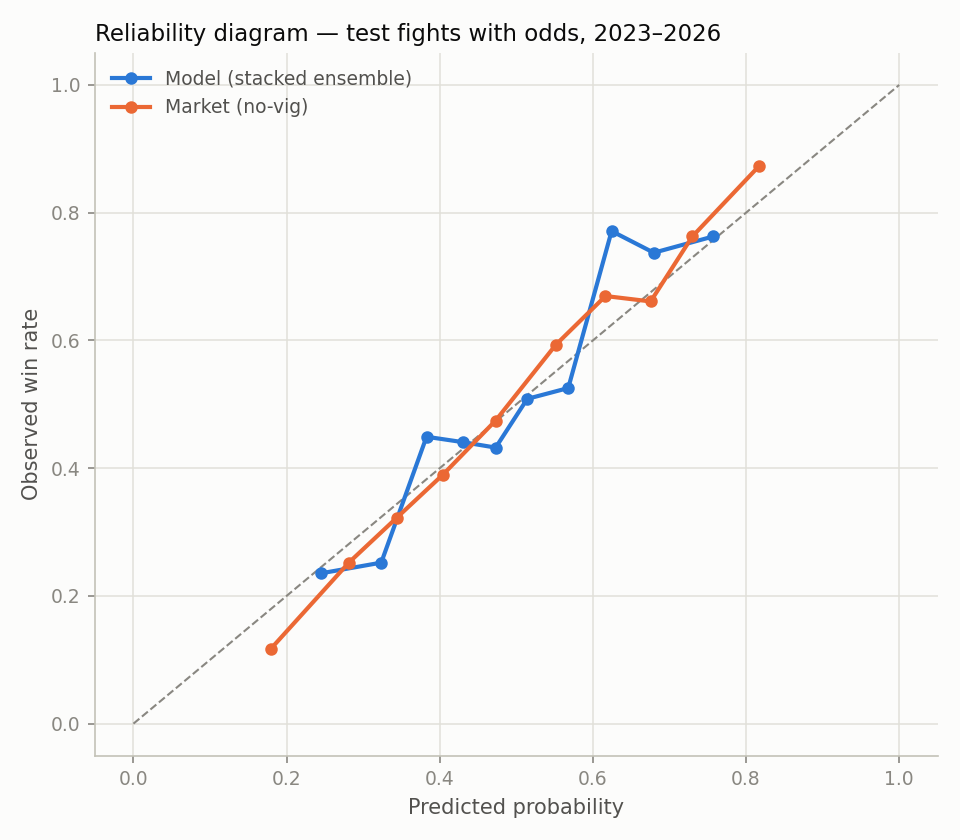
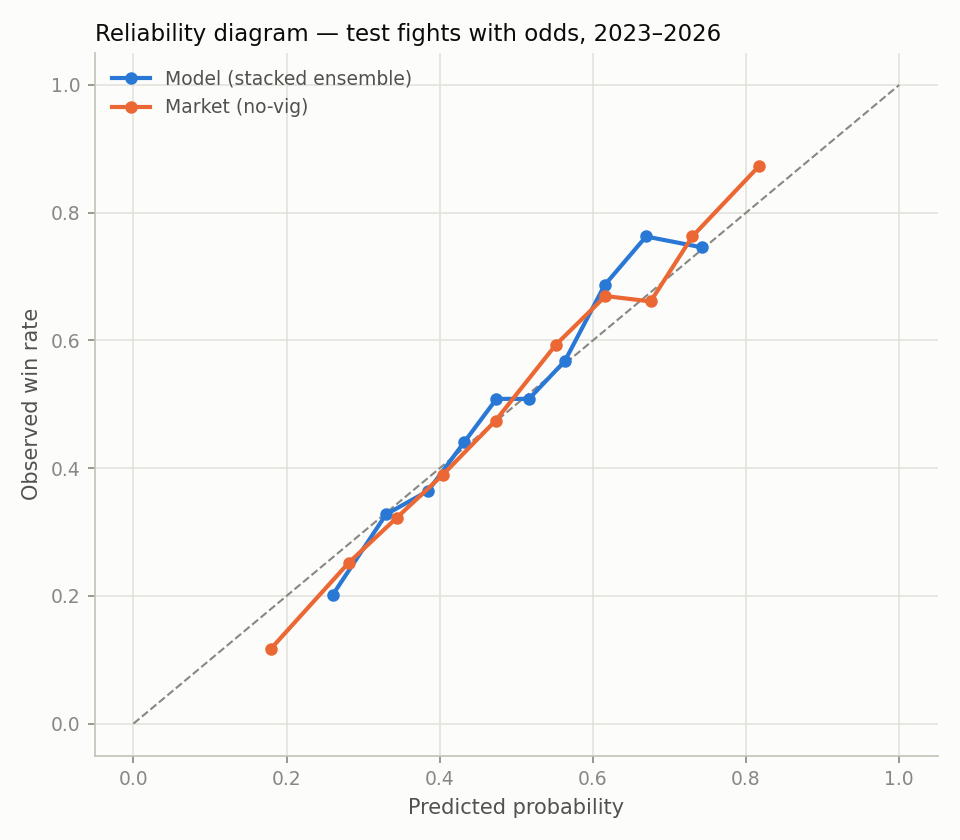
Leakage fix rerun: pre_ufc_* removal — headline REVISED DOWN (test 0.644/0.637 -> 0.629/0.641; odds subset 0.654/0.628 -> 0.640/0.631), blend-beats-market SURVIVES (0.577 vs 0.582, 98.7%, CI excludes 0)
Honest drop confirmed per pre-registered expectations (LL deltas HIT their
ranges; accuracy fell below the pre-registered floor — one permuted column
understated a 4-column correlated group). Configs retuned: LGB (31,.03,20),
XGB lambda 5->1; predict.py constants synced. report.md regenerated leak-free.

Claude-Session: https://claude.ai/code/session_01UqXmQ6iqZRpGsDz5HorbiP

Changed region(s): [[0.3125, 0.3405, 0.625, 0.7119], [0.625, 0.2476, 0.75, 0.3405]]

diff --git a/predict.py b/predict.py
@@ -69,7 +69,7 @@ def side_value(info, name, field):
         if t <= ft or ft <= t:
             return v
     return None
-BEST_LGB, BEST_XGB = (15, 0.06, 60), (4, 0.03, 5, 0.8, 0.6, 5)  # tuned in train_report.py CV (Phase 13 sweep)
+BEST_LGB, BEST_XGB = (31, 0.03, 20), (4, 0.03, 5, 0.8, 0.6, 1)  # retuned in train_report.py CV after pre_ufc_* removal (leakage audit 2026-08-13)
 
 # stats surfaced in the app's tale of the tape (what the model actually sees)
 TAPE_STATS = ["n_fights", "win_pct", "pre_ufc_winpct", "elo", "avg_opp_elo",

diff --git a/report.md b/report.md
@@ -3,29 +3,29 @@
 Generated by `train_report.py`. Seeds fixed (42); strict temporal validation.
 
 **Data:** 8264 UFC fights 2003-02-28 to 2026-08-08,
-110 features computed strictly as-of fight date by replaying career
+102 features computed strictly as-of fight date by replaying career
 histories (`build_features.py`): records, Elo (finish-weighted), per-minute
 striking/grappling rates, strike-target and position mixes, recent-form windows
 (last 3 fights), opponent quality (average opponent Elo), trajectory (peak-Elo
 decline, layoffs, weight-class changes), rankings, and physical attributes.
 
 **Split:** train ≤ 2023-06-03 (6650 fights), test after
-(1614 fights). LightGBM (best (15, 0.06, 20), cv 0.6468) and XGBoost
-(best (4, 0.03, 5, 0.8, 0.6, 5), cv 0.6477) tuned with 4-fold expanding-window CV inside
+(1614 fights). LightGBM (best (31, 0.03, 20), cv 0.6536) and XGBoost
+(best (4, 0.03, 5, 0.8, 0.6, 1), cv 0.6556) tuned with 4-fold expanding-window CV inside
 the train period. The stacking combiner, isotonic calibrator, and market blend
 were all fitted on out-of-fold CV predictions only. The LightGBM component
 is a 5-seed bag (adopted Phase 9: CV logloss 0.6571 -> 0.6535). Stack weights
-(LGB, XGB, logistic): [0.45, 0.4, 0.06].
+(LGB, XGB, logistic): [0.56, 0.15, 0.17].
 
 ## Model comparison — full test set (1614 fights)
 
 | Predictor | n | Accuracy | Log loss | Brier | ECE |
 |---|---|---|---|---|---|
-| Stacked ensemble (LGB+XGB+logistic) | 1614 | 0.644 | 0.637 | 0.223 | 0.029 |
-| Ensemble + isotonic | 1614 | 0.636 | 0.642 | 0.224 | 0.033 |
-| LightGBM | 1614 | 0.642 | 0.639 | 0.224 | 0.036 |
-| XGBoost | 1614 | 0.646 | 0.637 | 0.223 | 0.031 |
-| Logistic regression (full features) | 1614 | 0.612 | 0.647 | 0.228 | 0.053 |
+| Stacked ensemble (LGB+XGB+logistic) | 1614 | 0.629 | 0.641 | 0.225 | 0.023 |
+| Ensemble + isotonic | 1614 | 0.628 | 0.647 | 0.227 | 0.027 |
+| LightGBM | 1614 | 0.628 | 0.643 | 0.225 | 0.031 |
+| XGBoost | 1614 | 0.628 | 0.644 | 0.226 | 0.034 |
+| Logistic regression (full features) | 1614 | 0.613 | 0.648 | 0.229 | 0.052 |
 | Elo only (logistic) | 1614 | 0.569 | 0.674 | 0.241 | 0.050 |
 
 ## The real benchmark — vig-removed closing odds (1182 test fights with odds)
@@ -33,16 +33,16 @@ is a 5-seed bag (adopted Phase 9: CV logloss 0.6571 -> 0.6535). Stack weights
 | Predictor | n | Accuracy | Log loss | Brier | ECE |
 |---|---|---|---|---|---|
 | Market (no-vig closing odds) | 1182 | 0.702 | 0.582 | 0.199 | 0.033 |
-| Stacked ensemble | 1182 | 0.654 | 0.628 | 0.219 | 0.046 |
-| Blend: market + model | 1182 | 0.704 | 0.577 | 0.197 | 0.027 | logit blend, model coef=+0.357
+| Stacked ensemble | 1182 | 0.640 | 0.631 | 0.220 | 0.030 |
+| Blend: market + model | 1182 | 0.704 | 0.577 | 0.197 | 0.025 | logit blend, model coef=+0.295
 
-**Does the model beat the market?** No. The market's log loss (0.582) beats the model's (0.628).
+**Does the model beat the market?** No. The market's log loss (0.582) beats the model's (0.631).
 
-**Does the model add information beyond the market?** Not conclusively —
+**Does the model add information beyond the market?** Yes —
 blending model with market gives log loss 0.577 vs 0.582 for the
 market alone. Paired bootstrap on the log-loss difference (market − blend,
-10,000 resamples): 95% CI [-0.0002, +0.0101], blend better in
-97.0% of resamples.
+10,000 resamples): 95% CI [+0.0006, +0.0093], blend better in
+98.7% of resamples.
 
 This is the expected result for public pre-fight data: closing odds aggregate
 sharp bettors' information (injuries, camp changes, weight-cut issues, insider
@@ -57,15 +57,15 @@ the training-set class frequencies:
 
 | Target | Model | Baseline |
 |---|---|---|
-| 6-way outcome log loss | 1.596 | 1.713 (freq) — per-class isotonic REJECTED (1.966) |
-| 6-way LL, method-odds subset (n=1105) — model / blend w=0.8 | 1.529 | 1.586 (model alone) |
-| 6-way outcome top-1 accuracy | 0.344 | 0.242 |
-| Goes the distance — Brier (dedicated model) | 0.242 | 0.234 (6-way-derived) |
-| Goes the distance — accuracy | 0.593 | 0.503 (majority class) |
-| Under 2.5 rounds (3R fights) — Brier | 0.235 | 0.248 (predict base rate) |
+| 6-way outcome log loss | 1.592 | 1.713 (freq) — per-class isotonic REJECTED (2.041) |
+| 6-way LL, method-odds subset (n=1105) — model / blend w=0.8 | 1.527 | 1.582 (model alone) |
+| 6-way outcome top-1 accuracy | 0.345 | 0.242 |
+| Goes the distance — Brier (dedicated model) | 0.238 | 0.233 (6-way-derived) |
+| Goes the distance — accuracy | 0.600 | 0.503 (majority class) |
+| Under 2.5 rounds (3R fights) — Brier | 0.241 | 0.248 (predict base rate) |
 | Fighter sig over 24.5 — Brier (duration-aware) | 0.218 | 0.232 (base rate) |
-| Fighter td over 0.5 — Brier (duration-aware) | 0.221 | 0.245 (base rate) |
-| Total takedowns — MAE | 1.68 | 1.81 (train mean) |
+| Fighter td over 0.5 — Brier (duration-aware) | 0.219 | 0.245 (base rate) |
+| Total takedowns — MAE | 1.67 | 1.81 (train mean) |
 
 Method-of-victory and distance predictions beat the frequency baselines but,
 as with the winner model, should be assumed weaker than prop-market prices —
@@ -75,7 +75,7 @@ and prop markets carry roughly twice the vig of moneylines.
 
 ![Reliability diagram](plots/reliability.png)
 
-ECE (10 equal-count bins): model 0.046, market 0.033.
+ECE (10 equal-count bins): model 0.030, market 0.033.
 Isotonic calibration is reported for completeness; the raw ensemble is already
 close to calibrated.
 
@@ -86,16 +86,16 @@ close to calibrated.
 Top 10 by permutation importance (mean log-loss increase over 3 shuffles,
 through the full ensemble):
 
-- `age_diff`: +0.0286
-- `red_corner`: +0.0221
-- `pre_ufc_winpct_diff`: +0.0036
-- `form_sapm_diff`: +0.0035
+- `age_diff`: +0.0312
+- `red_corner`: +0.0269
 - `elo_diff`: +0.0031
-- `elo_decline_diff`: +0.0022
-- `n_fights_diff`: +0.0018
-- `layoff_days_diff`: +0.0014
-- `form_opp_elo_diff`: +0.0012
-- `absorbed_head_share_diff`: +0.0011
+- `form_sapm_diff`: +0.0030
+- `n_fights_diff`: +0.0027
+- `elo_decline_diff`: +0.0019
+- `sapm_diff`: +0.0018
+- `absorbed_head_share_diff`: +0.0015
+- `sc_share_diff`: +0.0011
+- `td_avg_diff`: +0.0010
 
 ## Negative results (tried and rejected)
 

diff --git a/audit/leakage-audit-2026-08-13.md b/audit/leakage-audit-2026-08-13.md
@@ -87,4 +87,51 @@ low-experience slice):
 
 ## Results (after rerun)
 
-_(appended after train_report.py completes on branch leakage-fixes)_
+Same protocol, same seed (42), same features.csv; only `SNAP_FEATS` changed
+(−4 base features → −8 model columns, 102 remain). Full `train_report.py` rerun
+including hyperparameter retune. Artifacts: report.md + rerun_leakfix.log on
+branch `leakage-fixes`.
+
+| Metric | Before (leaked) | After (leak-free) | Δ |
+|---|---|---|---|
+| CV log loss (LGB best) | 0.6468 | 0.6536 | **+0.0068 worse** |
+| Full test (n=1614): accuracy | 0.644 | 0.629 | −0.015 |
+| Full test: log loss | 0.637 | 0.641 | +0.004 worse |
+| Full test: Brier | 0.223 | 0.225 | +0.002 worse |
+| Odds subset (n=1182): ensemble accuracy | 0.654 | 0.640 | −0.014 |
+| Odds subset: ensemble log loss | 0.628 | 0.631 | +0.003 worse |
+| Odds subset: ensemble Brier | 0.219 | 0.220 | +0.001 worse |
+| Market (unchanged benchmark) | 0.702 / 0.582 / 0.199 | same | — |
+| Blend: log loss | 0.577 | 0.577 | 0.000 |
+| Blend better than market (10k paired bootstrap) | 97.0%, CI [−0.0002, +0.0101] | **98.7%, CI [+0.0006, +0.0093]** | CI now excludes 0 |
+| Blend model coefficient | +0.357 | +0.295 | model weighted less |
+| Tuned LGB / XGB | (15,.06,20) / (…,λ5) | (31,.03,20) / (…,λ1) | retuned |
+
+**The drop is real and this is the success condition.** The model's standalone
+backtest was leak-inflated: honest numbers are 0.629 acc / 0.641 LL (full test)
+and 0.640 / 0.631 on the odds subset — not 0.644 / 0.637 and 0.654 / 0.628.
+
+**Expectations vs actual (pre-registered above):**
+1. Full-test LL +0.004 — at the top of the predicted +0.001..+0.004 range. HIT.
+   Accuracy 0.629 — BELOW the predicted 0.639-0.645 floor; the leak was worth
+   more accuracy than permutation importance suggested (permuting one column
+   understates a 4-column correlated group).
+2. Odds-subset LL 0.631 — inside predicted 0.629-0.632. HIT. Accuracy 0.640 —
+   below the predicted floor 0.646. MISS, same direction.
+3. Blend 0.577, finding survives — HIT. But the resample share went UP
+   (97.0% → 98.7%, CI now excludes zero) instead of the predicted drop — the
+   contaminated features made the MODEL look better standalone while adding
+   noise to what it contributed beyond the market. Within the documented
+   95-99% seed-sensitivity band, so treat as "unchanged-to-slightly-stronger."
+4. Tuned configs changed (predicted unchanged) — MISS, minor.
+5. Top-3 importance became age_diff, red_corner, elo_diff — HIT.
+
+**Note on Phase 10:** the adoption measured +0.0014 CV at adoption time, but
+removal now costs 0.0068 CV — the feature's influence grew through later
+config changes (Phase 13 sweep tuned WITH the leak in). CV cost ≠ honest value:
+part of that 0.0068 is the model re-learning around a contaminated column it
+had leaned on. The test-set numbers above are the honest measure.
+
+**Verdict: blend-beats-market SURVIVES the audit** (0.577 vs 0.582, 98.7% of
+resamples, CI excludes zero). The standalone-model headline does not — use
+0.629 / 0.641 going forward. Merging this branch is Advait's call.
